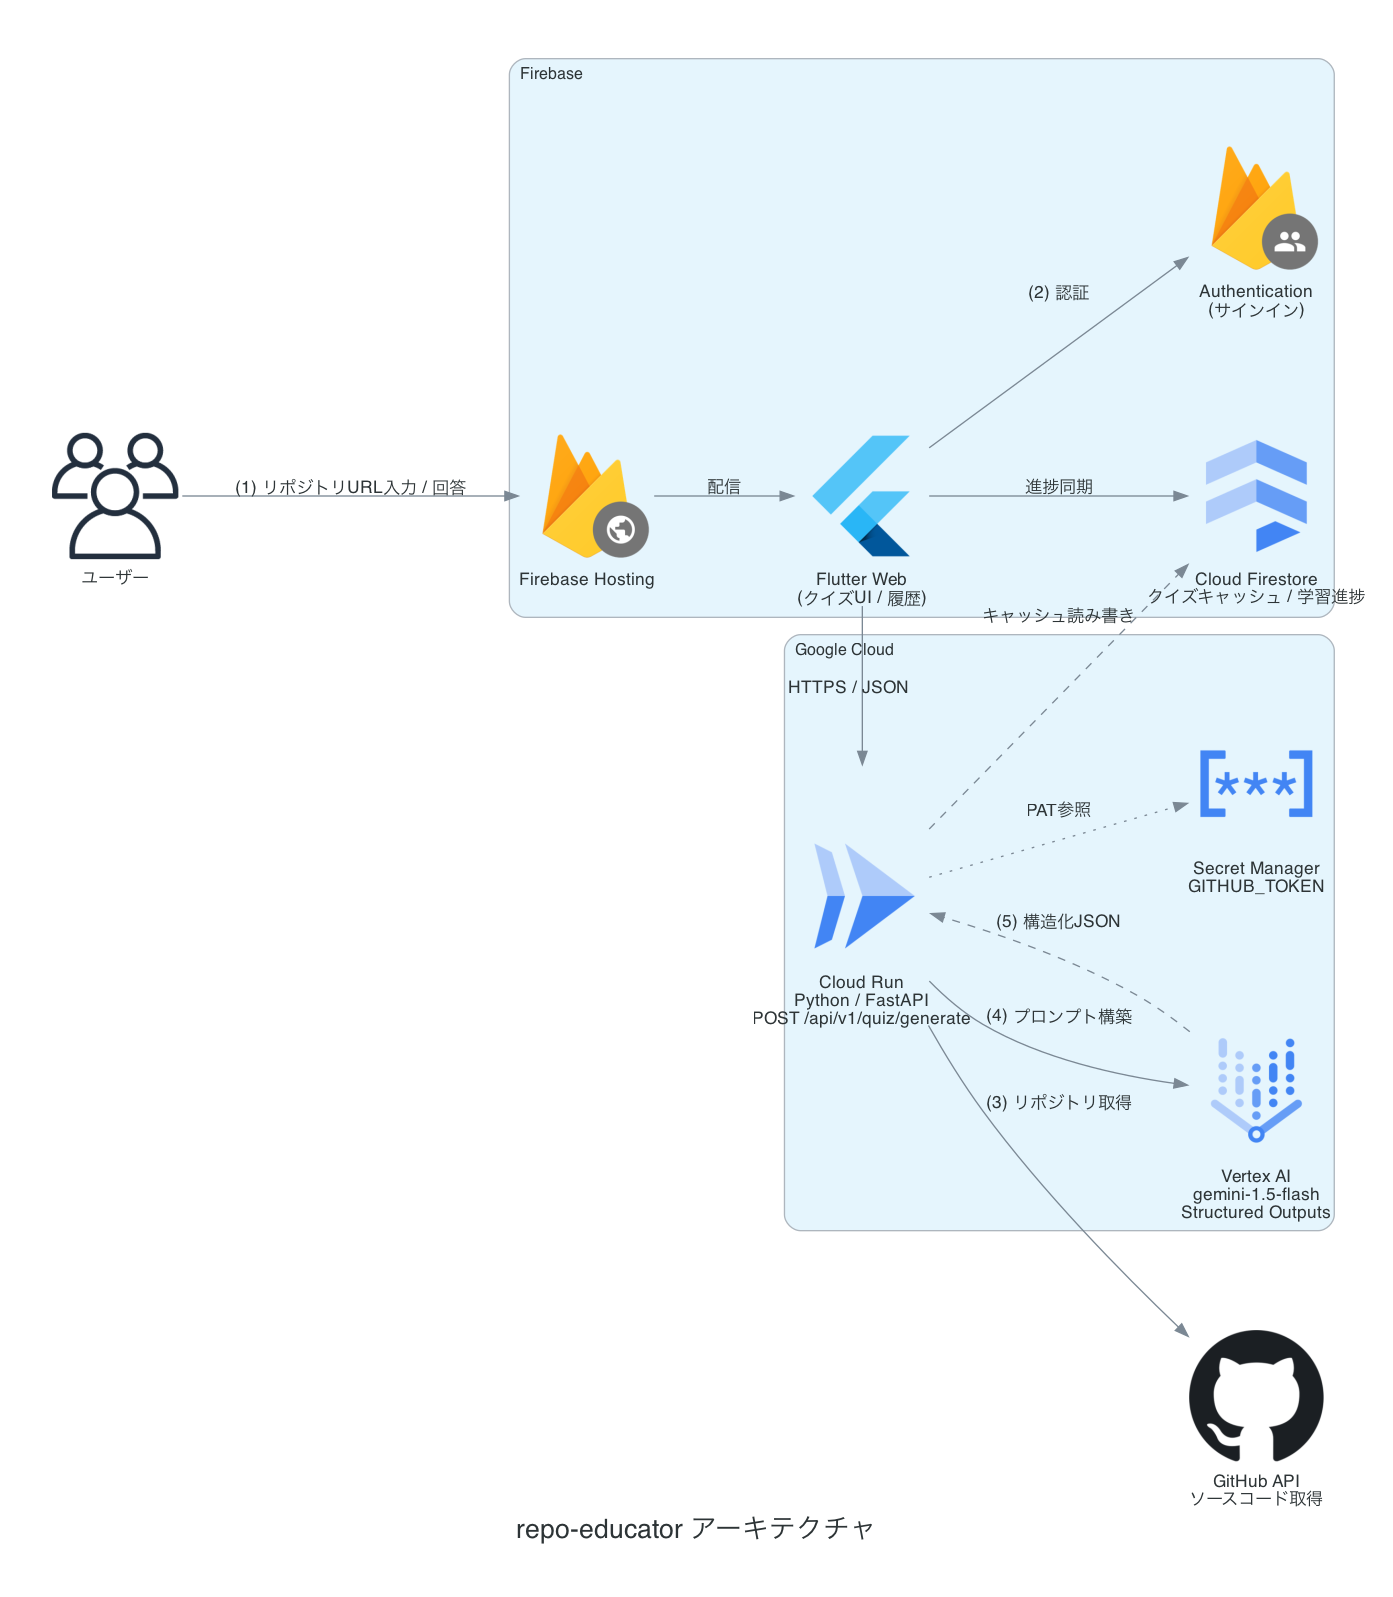
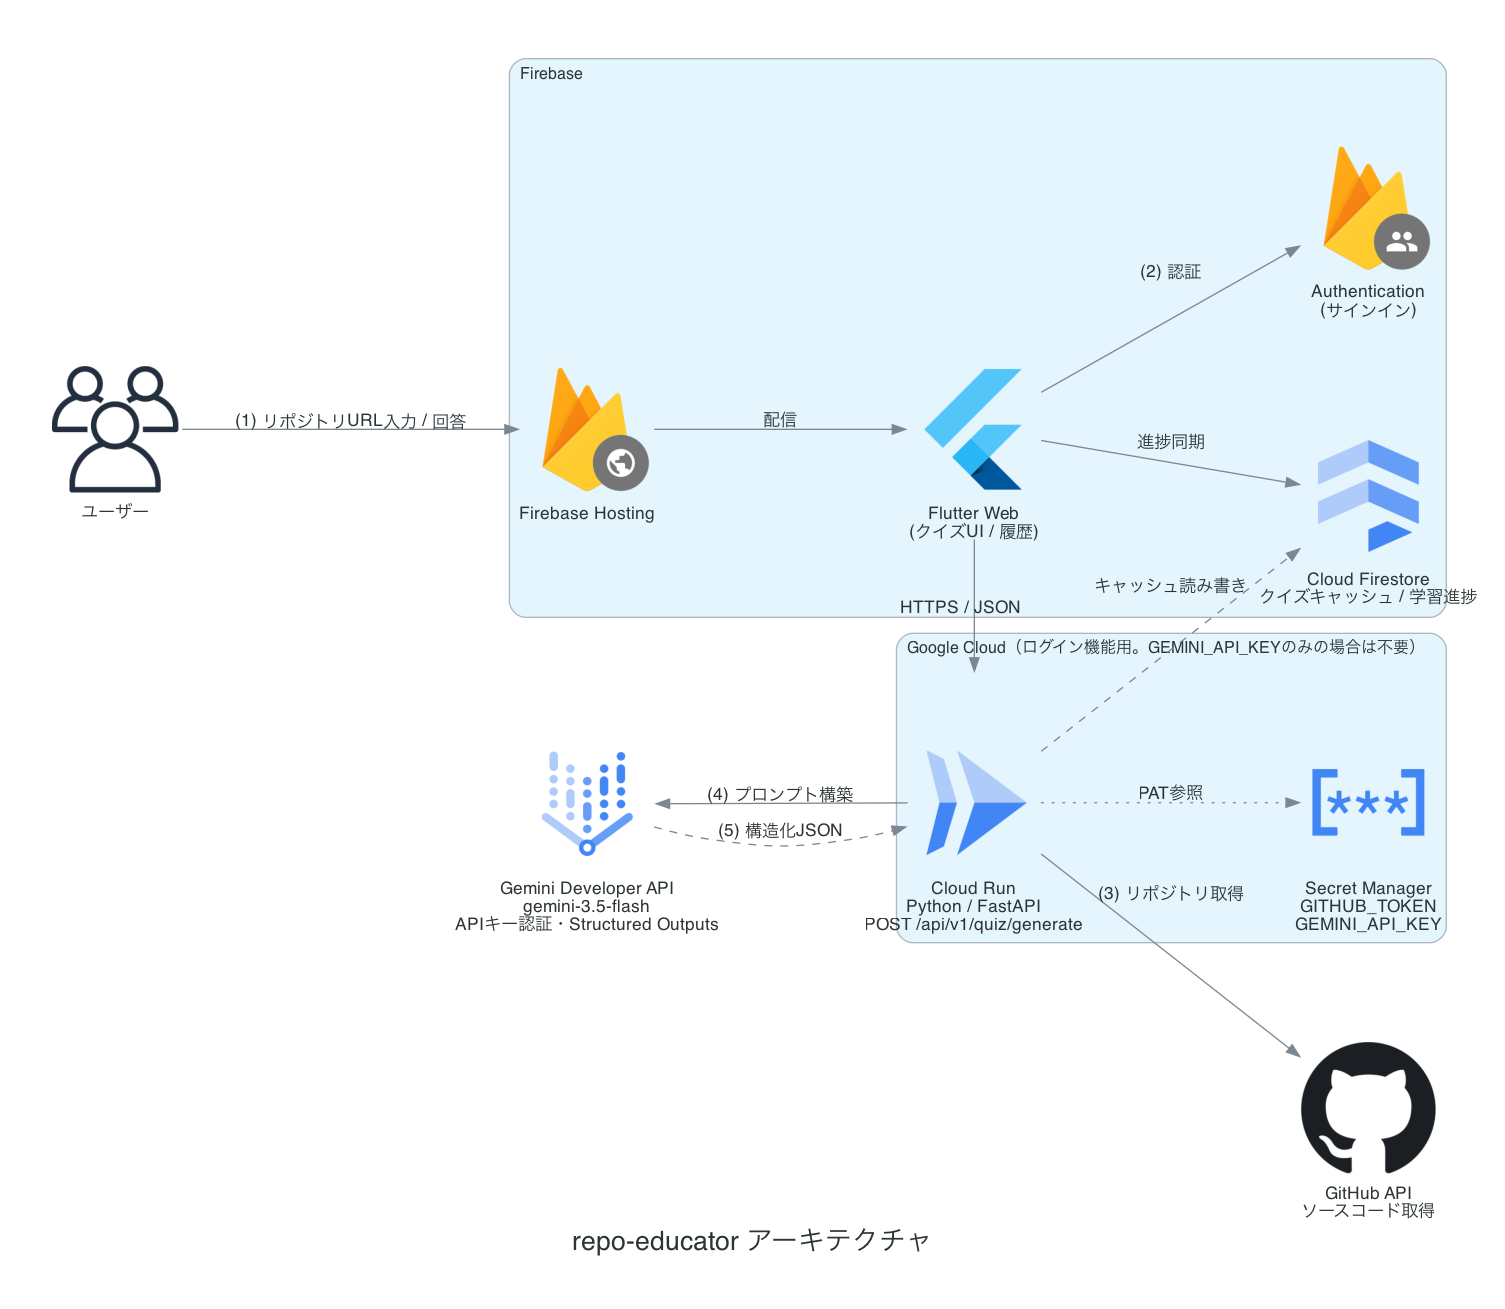
feat: アーキテクチャ図の更新とGemini Developer APIの追加

Changed region(s): [[0.0309, 0.0306, 0.9878, 0.9473], [0.3704, 0.9473, 0.6174, 0.9778], [0.7408, 0.1833, 0.8026, 0.2139]]

diff --git a/docs/architecture.py b/docs/architecture.py
@@ -47,15 +47,18 @@ with Diagram(
         frontend >> Edge(label="(2) 認証") >> auth
         frontend >> Edge(label="進捗同期") >> firestore
 
-    with Cluster("Google Cloud"):
+    with Cluster("Google Cloud（ログイン機能用。GEMINI_API_KEYのみの場合は不要）"):
         backend = Run("Cloud Run\nPython / FastAPI\nPOST /api/v1/quiz/generate")
-        vertex = VertexAI("Vertex AI\ngemini-1.5-flash\nStructured Outputs")
-        secret = SecretManager("Secret Manager\nGITHUB_TOKEN")
+        secret = SecretManager("Secret Manager\nGITHUB_TOKEN\nGEMINI_API_KEY")
 
-        backend >> Edge(label="(4) プロンプト構築") >> vertex
-        vertex >> Edge(label="(5) 構造化JSON", style="dashed") >> backend
         backend >> Edge(label="PAT参照", style="dotted") >> secret
         backend >> Edge(label="キャッシュ読み書き", style="dashed") >> firestore
+
+    # Vertex AIではなく、APIキー1本のGemini Developer APIを使う。
+    # GCPプロジェクトとは無関係な別サービスであることを示すため、Google Cloudクラスタの外に置く。
+    gemini = VertexAI("Gemini Developer API\ngemini-3.5-flash\nAPIキー認証・Structured Outputs")
+    backend >> Edge(label="(4) プロンプト構築") >> gemini
+    gemini >> Edge(label="(5) 構造化JSON", style="dashed") >> backend
 
     github = Github("GitHub API\nソースコード取得")
 
